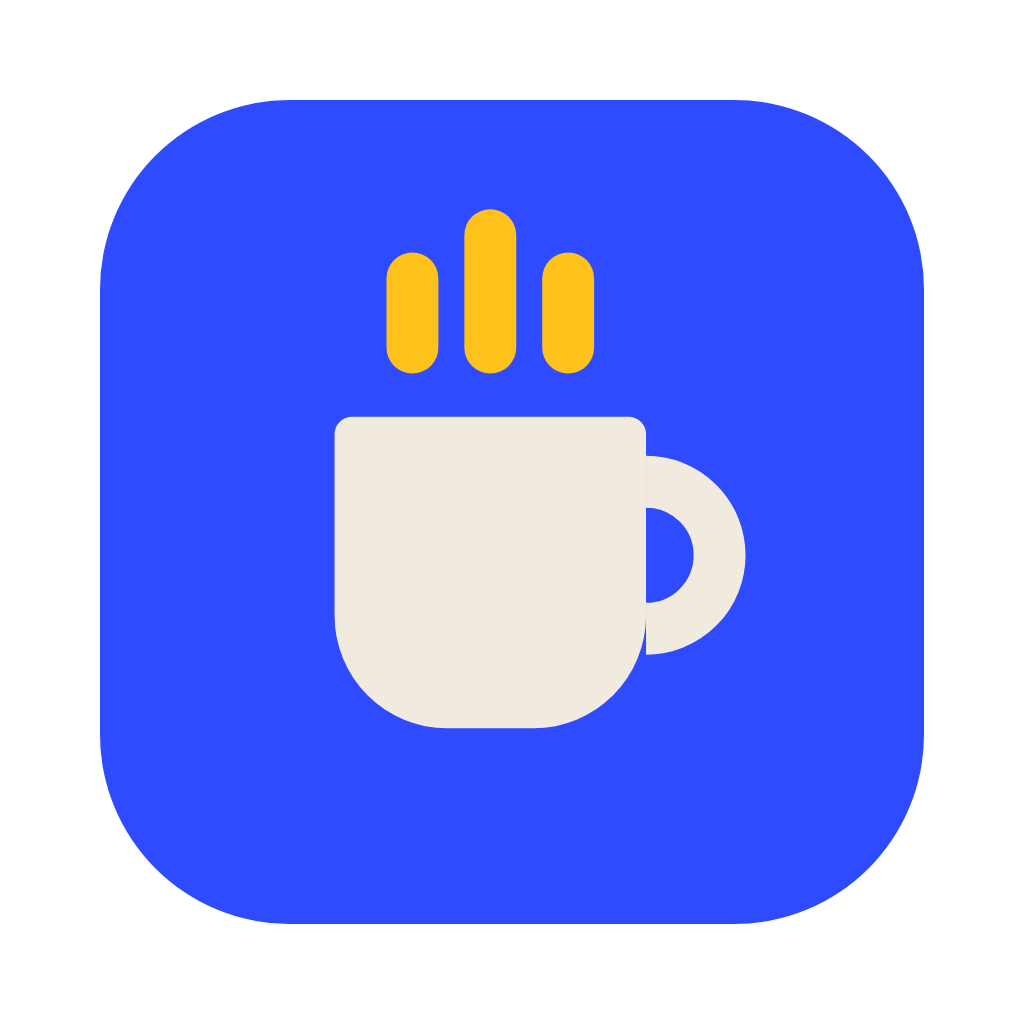
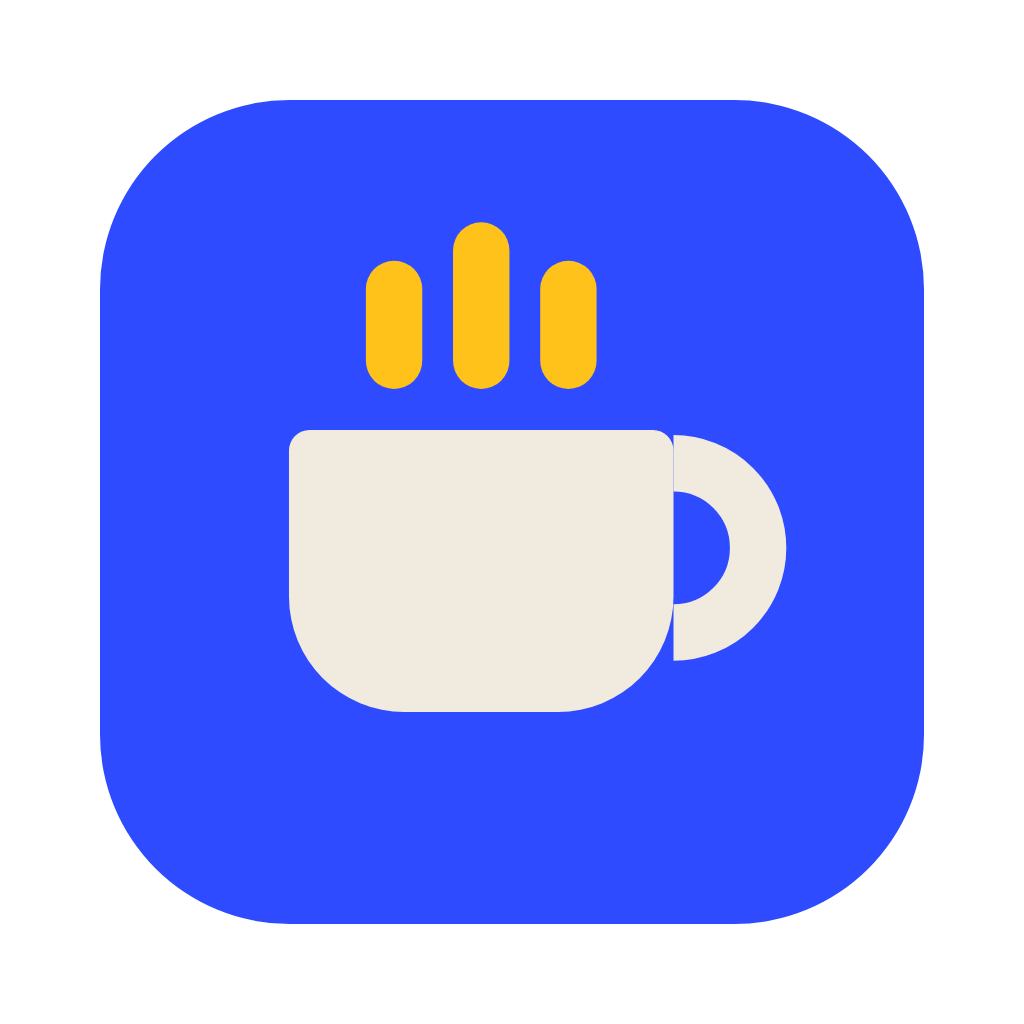
Add the BC2 mark: design assets, tokens and plan

diff --git a/docs/redesign/PLAN-mark-bc2.md b/docs/redesign/PLAN-mark-bc2.md
@@ -1,0 +1,82 @@
+# awaker — знак BC2: план для Claude Code
+
+Продолжение `PLAN.md`: редизайн уже сделан, этот план меняет только **форму знака** — кружка становится приземистой (вариант BC2: тело шире и ниже, пар выше), а иконка меню-бара — крупнее (22pt вместо 18). Цвета, поповер, тексты, анимации и логика не меняются.
+
+Выбранные варианты из дизайн-системы:
+
+- **меню-бар — BC2**: приземистая кружка на всю высоту 22pt;
+- **кнопка — B1**: знак ≈ половина круга (как сейчас по размеру);
+- **иконка приложения — A1**: знак ≈ 60% ширины плитки;
+- **логотип — L2**: пар укорочен (только файлы `assets/awaker-mark*.svg`; в коде не рисуется).
+
+Обновлены: `assets/*` (знак, иконка приложения, иконки меню-бара), `tokens.json` (`menubar-icon` = 22), `BRAND.md`, `reference/*.png`. Источник правды для чисел — этот файл и SVG в `assets/`.
+
+## Как работать
+
+- Ветка `redesign/mark-bc2` от `main`. Один этап — один коммит, `make` и `swift test` зелёные после каждого.
+- Попиксельные тесты (`MenuBarIconTests`, `AppIconTests`) сверяют с новыми `assets/*.svg` / `awaker-app-icon.png` — они упадут, пока геометрия не обновлена; это ожидаемо.
+- Отличия от плана записать в конец этого файла, раздел «Решения».
+
+---
+
+## Новая геометрия (сетка BC2 × 5, y вниз)
+
+Вместо сетки 120 — сетка, в которой иконка меню-бара 22pt = масштаб 0.2.
+
+| модуль | было (сетка 120) | стало (сетка BC2 × 5) |
+|---|---|---|
+| тело | x 12…84, y 48…120, r сверху 4, снизу 26 | **x 7.5…82.5, y 50…105** (75×55), r сверху **4**, снизу **22.5** |
+| ручка | дуга c (84, 80), r 17, штрих 12 | дуга **c (82.5, 73), r 16.5**, штрих **11**, справа, концы `butt` |
+| пар, ширина / радиус | 12 / 6 | **11 / 5.5** |
+| пар, 3 столбика (x, y, h) | (24,10,28) (42,0,38) (60,10,28) | **(22.5, 17, 25) (39.5, 9.5, 32.5) (56.5, 17, 25)** — низ всех на y 42 |
+| пар, 2 столбика | (33,10,28) (51,10,28) | **(31, 17, 25) (48, 17, 25)** |
+| контур (sleepy) | тело, утопленное на 4.5, штрих 9 | тело, утопленное на **outlineWidth / 2**, скругление снизу 22.5 − inset; концы ручки тоже `butt` |
+| оптический центр | (53, 70) | **(51, 66)** |
+| оптическая рамка | 108×140 (`x −1…107, y 0…140`) | **107×113** (`x −2.5…104.5, y 9.5…122.5`) |
+| `moduleWidth` | 12 | **11** |
+
+Тело: `M11.5 50 H78.5 A4 4 0 0 1 82.5 54 V82.5 A22.5 22.5 0 0 1 60 105 H30 A22.5 22.5 0 0 1 7.5 82.5 V54 A4 4 0 0 1 11.5 50 Z`.
+Ручка: `M82.5 56.5 A16.5 16.5 0 0 1 82.5 89.5`.
+
+## Этап 1. `Drawing.swift` — сетка BC2
+
+- `Mark.body()`, `Mark.handle()`, `Mark.steamColumns(_:)` — по таблице. `opticalCenter = (51, 66)`, `opticalHeight = 113`, `moduleWidth = 11`.
+- `Mark.outline()` → `Mark.outline(inset:)`: тело, утопленное на `inset` (верх прямой, снизу радиус `22.5 − inset`). Вызывать с `inset = outlineWidth / 2`.
+- `drawMark(…)`: добавить `outlineHandleWidth` (по умолчанию `outlineWidth + 0.5`) — у контура ручка чуть толще линии тела, иначе она визуально тоньше.
+- Кнопка (`AwakeView`): `drawMark(in: markBox …)` с `buttonMark` 58 даёт масштаб 58 / 113 ≈ 0.513 — это вариант B1, размер не трогать. Контур sleepy: `outlineWidth: 10` (ручка 10.5).
+- Пар в анимации поднимается на те же 4 единицы сетки (`steamRise`), теперь это ≈ 2pt.
+- Тесты `PopoverTests` про геометрию знака — на новые числа (рамки тела, ручки, столбиков; оптический центр → центр рамки).
+
+**Готово, когда:** `reference/AwakeButton-*.png` и `Popover-*.png` совпадают с поповером; кружка в кнопке не прыгает между sleepy / awake / screen on.
+
+## Этап 2. Меню-бар 22pt
+
+Эталоны: `assets/menubar-*.svg` (22×22), `reference/MenuBarIcon-*.png`.
+
+- `Theme.Metrics.menubarIcon` = **22**; статус-айтем шириной 22 (`NSStatusItem(withLength: 22)` или `squareLength`, если он даёт 22) — ширина одинакова во всех состояниях.
+- `MenuBarIcon`: масштаб **0.2**, без сдвига — сетка BC2 × 5 переходит в точки один в один (`translate(0, 0) scale(0.2)`), т. е. `center = opticalCenter × 0.2 = (10.2, 13.2)`. Оптически иконку не центрировать: в SVG она занимает высоту строки целиком (пар сверху от y 1.9, низ тела на y 21).
+- Штрихи на сетке: заливка — ручка 11 (= модуль, 2.2pt); контур sleepy — `outlineWidth` 8.5 (1.7pt), ручка 9 (1.8pt).
+- Тест `PopoverTests` про сетку меню-бара — на `scale 0.2`, `(0, 0) → (0, 0)`; `MenuBarIconTests` сверяет с новыми SVG.
+
+**Готово, когда:** иконка занимает почти всю высоту меню-бара, три состояния различимы на светлом и тёмном, ширина айтема не меняется.
+
+## Этап 3. Иконка приложения (A1)
+
+Эталон: `assets/awaker-app-icon.svg` (плитка 180) и `awaker-app-icon.png` (1024, плитка 824).
+
+- `Support/make-icon.swift`: геометрия знака — новая (копия из `Drawing.swift`), оптический центр (51, 66) → центр плитки (512, 512).
+- Масштаб: на плитке 180 это **1.12** единицы сетки на точку, на плитке 824 — `1.12 × 824 / 180` ≈ **5.127**. Пар — полный, 3 столбика (25 / 32.5 / 25). Цвета прежние: плитка `#2E4BFF`, тело и ручка `#F1EADF`, пар `#FFC21A`.
+- `make icon`, перегенерировать `Support/awaker.icns`; `AppIconTests` сверяет с новым PNG.
+
+**Готово, когда:** в Finder и Dock — приземистая кремовая кружка с жёлтым паром, знак ≈ 60% ширины плитки.
+
+## Этап 4. README
+
+- Раздел «Design»: знак — приземистая кружка (BC2), иконка меню-бара 22pt.
+- В `PLAN.md` / этом файле — раздел «Решения», если что-то сделано не по плану.
+
+---
+
+## Решения
+
+_(заполняет исполнитель)_

diff --git a/docs/redesign/PLAN.md b/docs/redesign/PLAN.md
@@ -1,5 +1,7 @@
 # awaker — редизайн «vibrant»: план для Claude Code
 
+> **Обновление (знак BC2):** форма знака, иконка меню-бара 22pt и иконка приложения поменялись — см. `PLAN-mark-bc2.md`. Ассеты, `tokens.json` и `reference/` уже обновлены под новый знак; цифры геометрии в этом файле ниже — исторические.
+
 Перевести интерфейс awaker на новую айдентику — ту же семью, что noiser (https://github.com/elisey/noiser): тёплая бумага, Archivo Expanded, плоские яркие цвета, знак = главный контрол. Логику (`Keeper.swift`: процесс `caffeinate`, флаги, `-w <pid>`) не трогать, кроме текстов в `labels`.
 
 Источник правды — дизайн-система awaker. В этой папке лежит всё, что из неё нужно:
